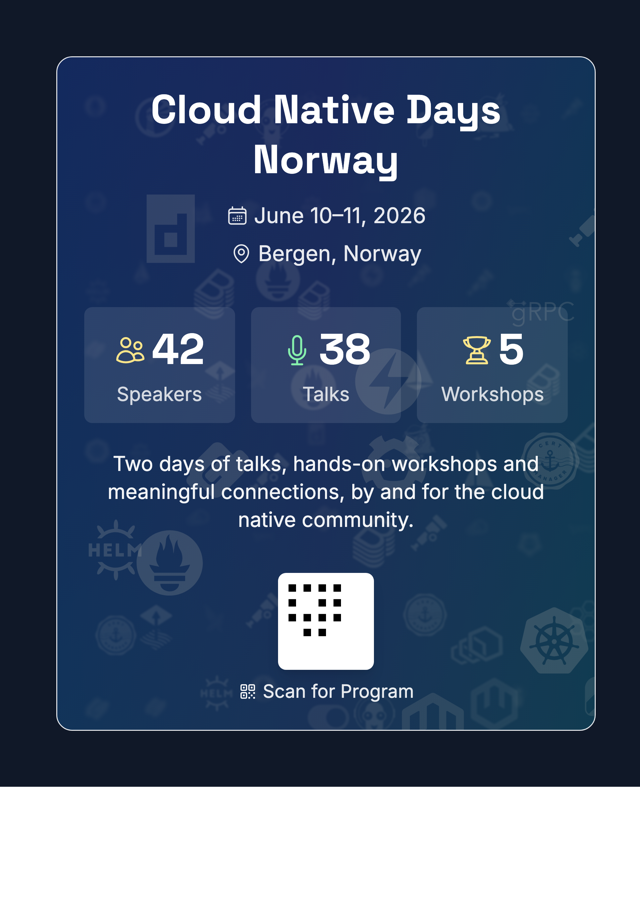
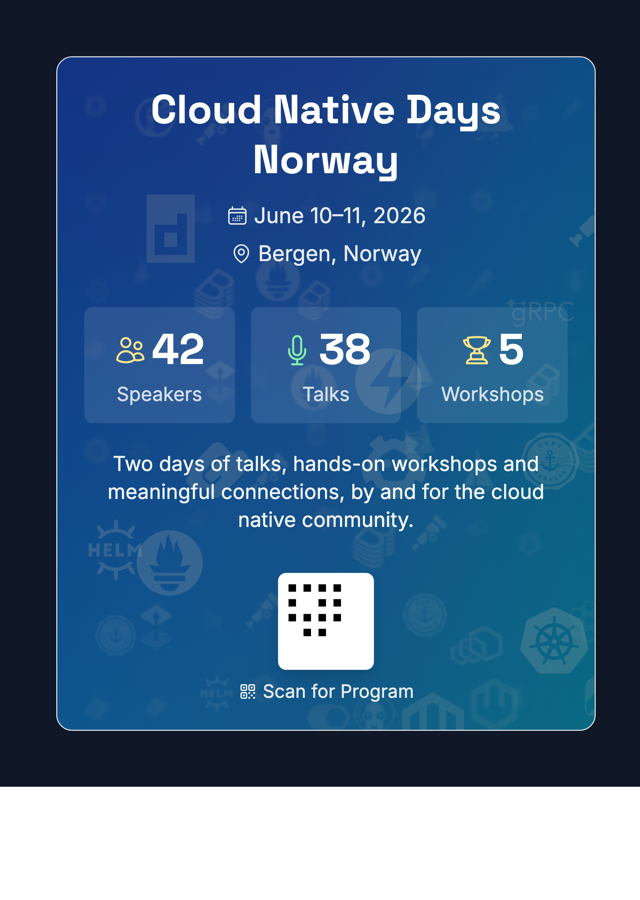
docs(marketing): decide the promo's Format layouts in the spec; refresh screenshots (#1250)

diff --git a/docs/MARKETING_STUDIO_FORMATS_SPEC.md b/docs/MARKETING_STUDIO_FORMATS_SPEC.md
@@ -50,7 +50,12 @@ cards exist to be recognisable across platforms. The brand pattern fills every F
 - **Sponsor card.** Square stacks tagline, logo, tier, event line, QR. Landscape is today's 16:9
   layout widened to 1.91:1, logo left, text right. Portrait stacks with the logo given the middle
   third.
-- **Conference promo** (second slice): the same rule; its layout is decided when that slice is built.
+- **Conference promo** (second slice, #1250): the same rule, in the brand gradient it always had,
+  independent of the organizer's admin theme. Square stacks title, date and place, the counts, the
+  description, and the QR beside its scan line. Landscape keeps the title, date and place across the
+  top, the description over the counts on the left and the QR in the lower right. Portrait is the
+  square's stack with the date and place on their own lines and the QR centred below. A conference
+  without a start date has no date line; one is never invented.
 
 Every template has a Storybook story per Format, and the capture is checked against the story: the
 shot succeeding is not the same as the shot being of the right thing.
